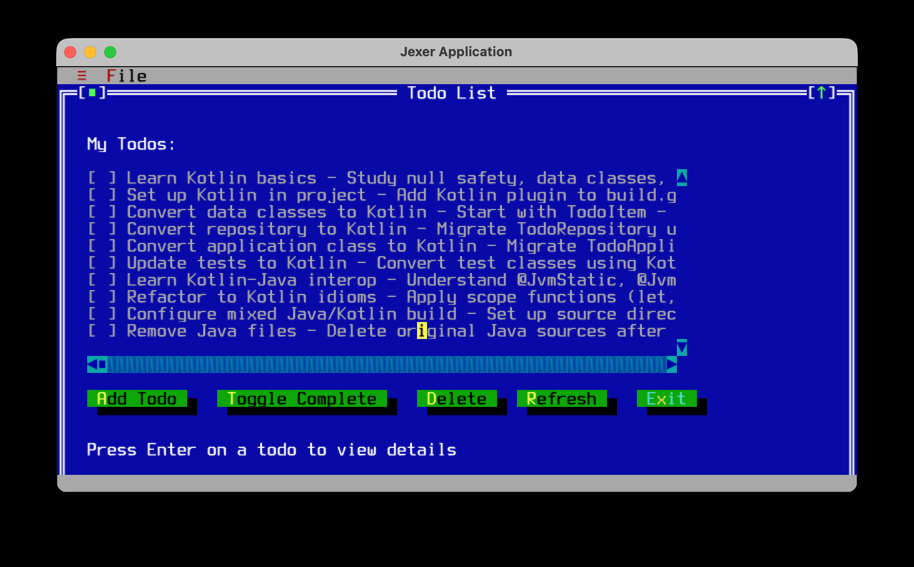
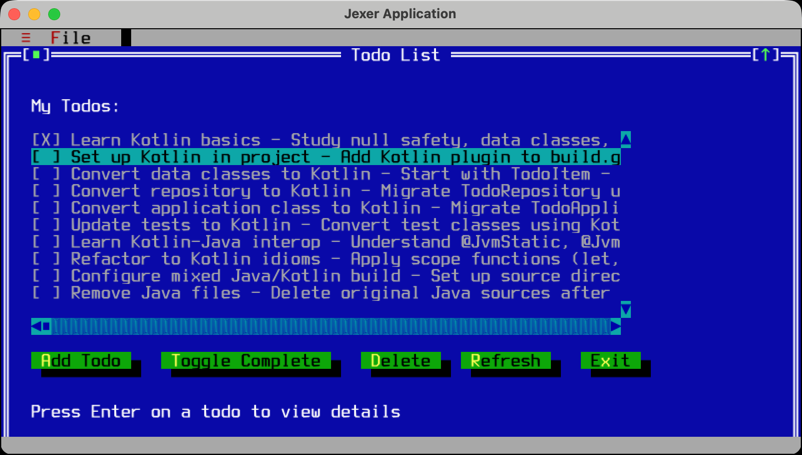
Add screenshot

diff --git a/README.md b/README.md
@@ -8,6 +8,8 @@ A sample project demonstrating how to write tests in Kotlin for Java application
 
 ## Getting Started
 
+![Todo Application Screenshot](misc/img.png)
+
 ### Prerequisites
 
 - Java 17 or higher
